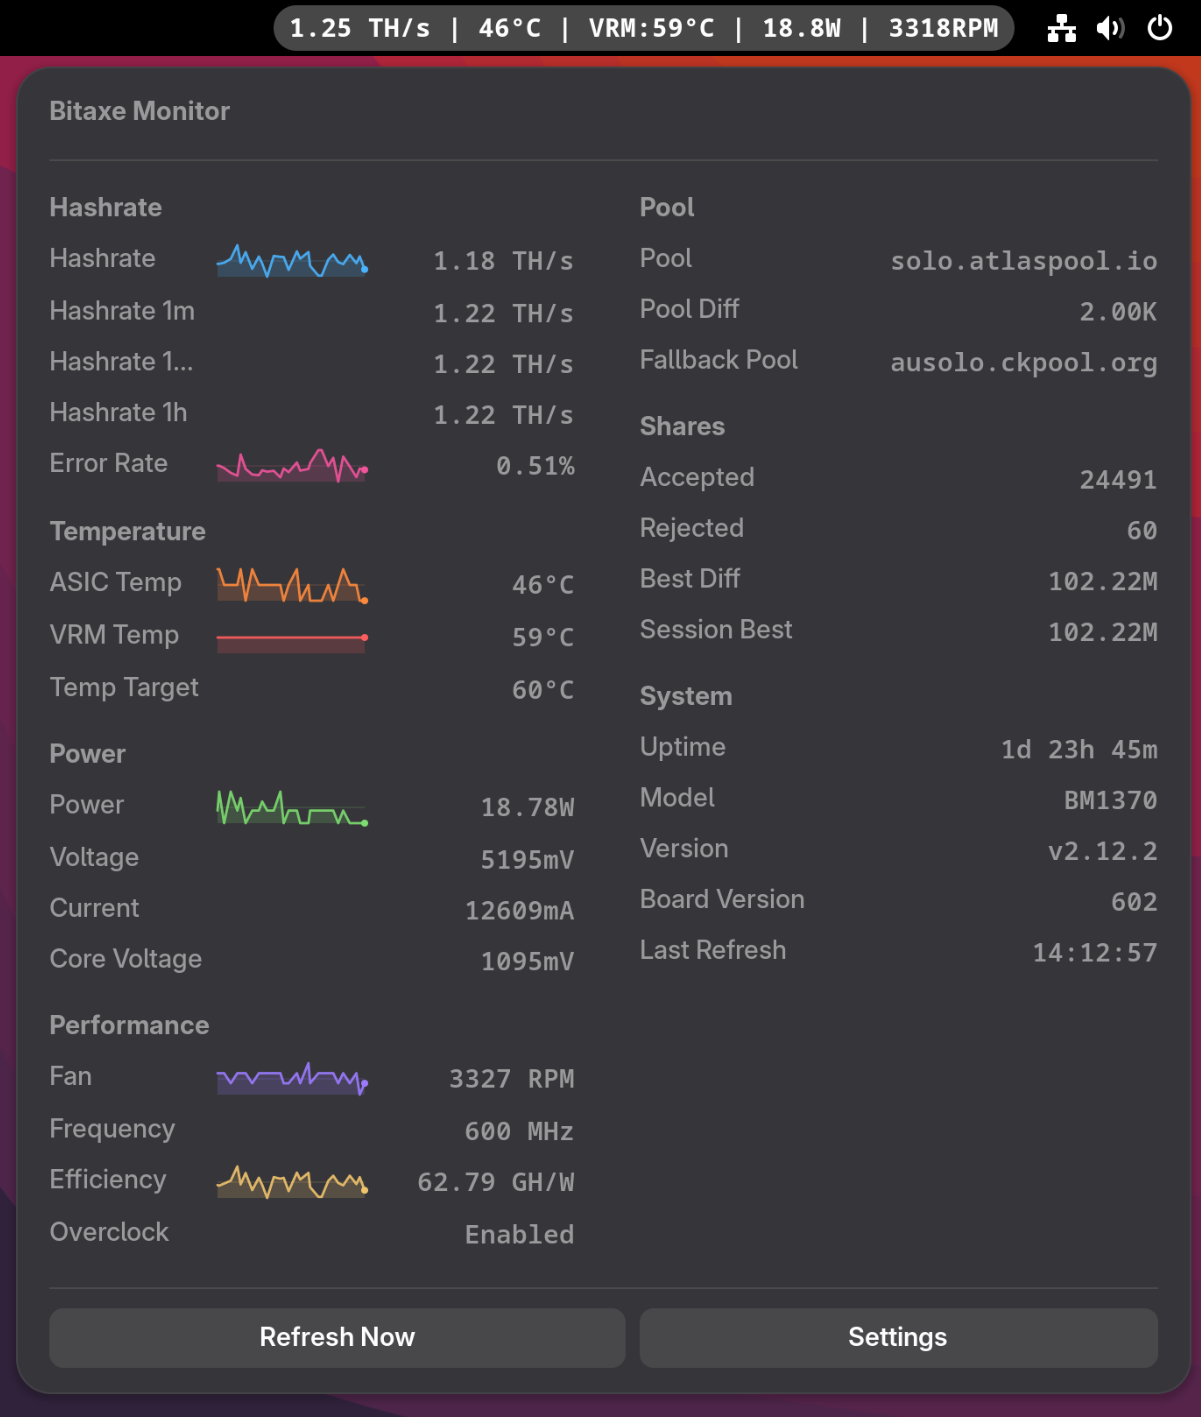
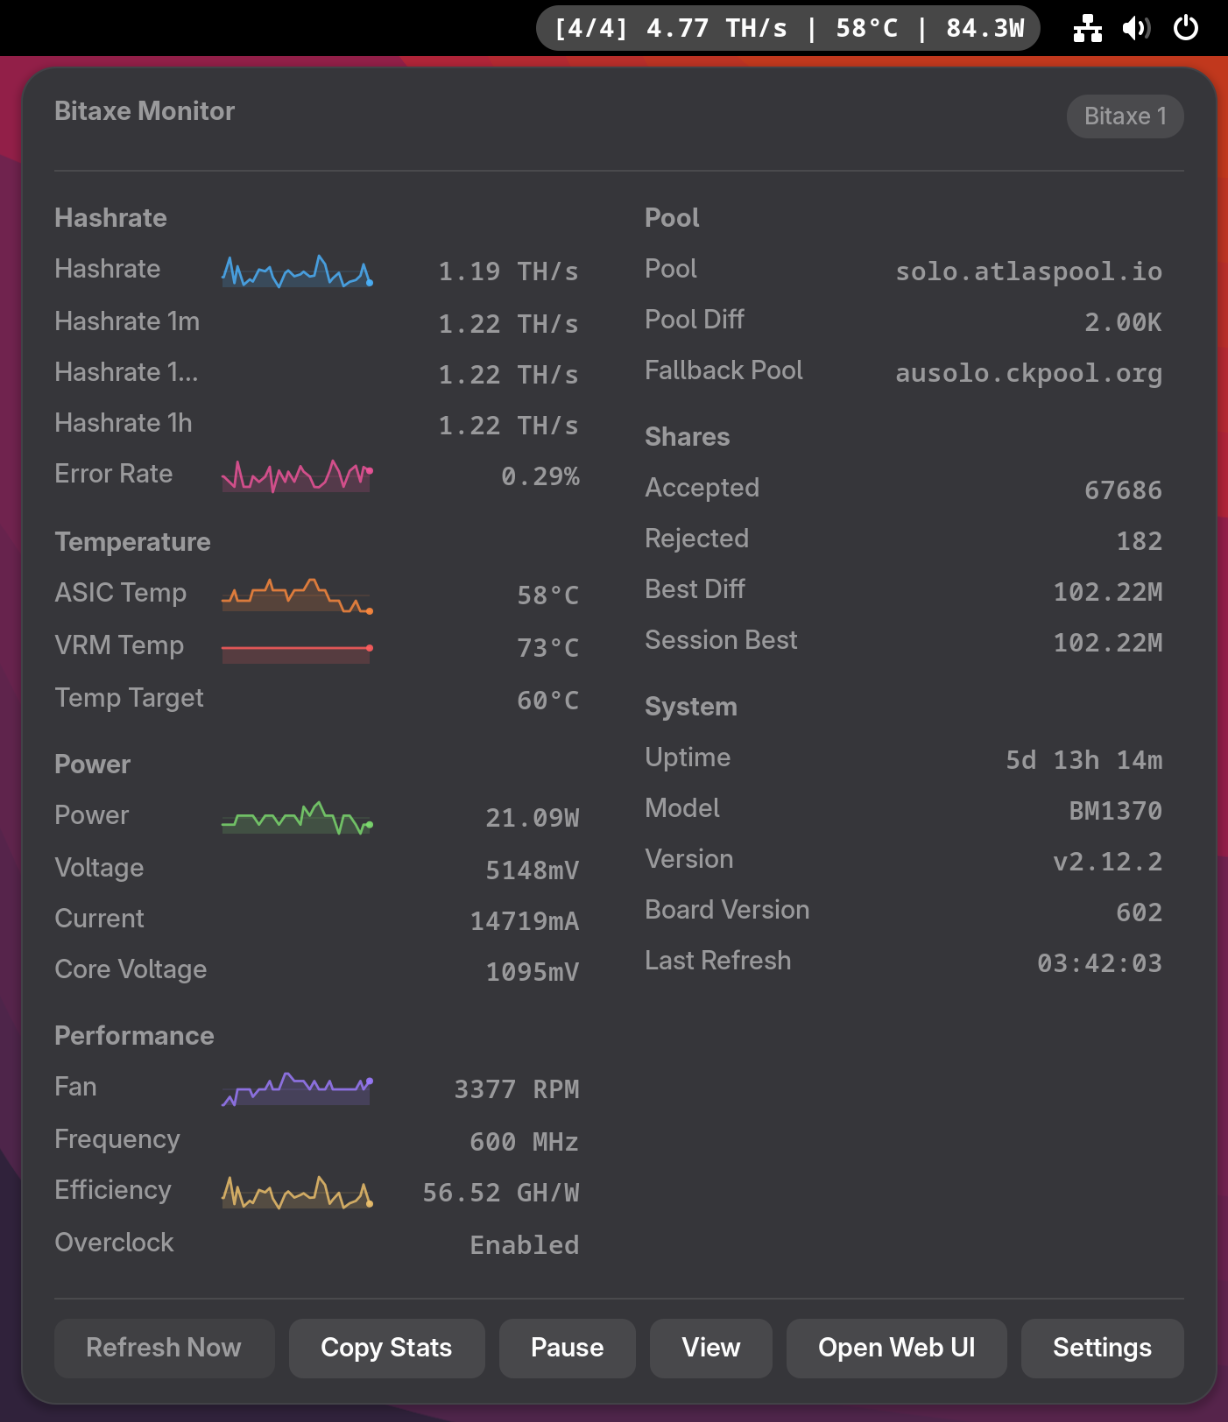
Minor Tweaks & New Screenshots

diff --git a/extension.js b/extension.js
@@ -770,14 +770,10 @@ class BitaxeIndicator extends PanelMenu.Button {
         // Show button only when there are multiple devices
         if (this._devices.length <= 1) {
             this._selectViewButton.visible = false;
-            if (this._viewLabel) {
-                this._viewLabel.text = '';
-            }
-            return;
+        } else {
+            this._selectViewButton.visible = true;
+            this._selectViewButton.label = 'View';
         }
-
-        this._selectViewButton.visible = true;
-        this._selectViewButton.label = 'View';
 
         // Update header label to show current view
         if (this._viewLabel) {

diff --git a/stylesheet.css b/stylesheet.css
@@ -245,7 +245,8 @@
 
 /* Single Device Scroll View */
 .bitaxe-single-device-scroll {
-    max-height: 500px;
+    max-height: 720px;
+    padding-right: 12px;
 }
 
 /* Farm View */
